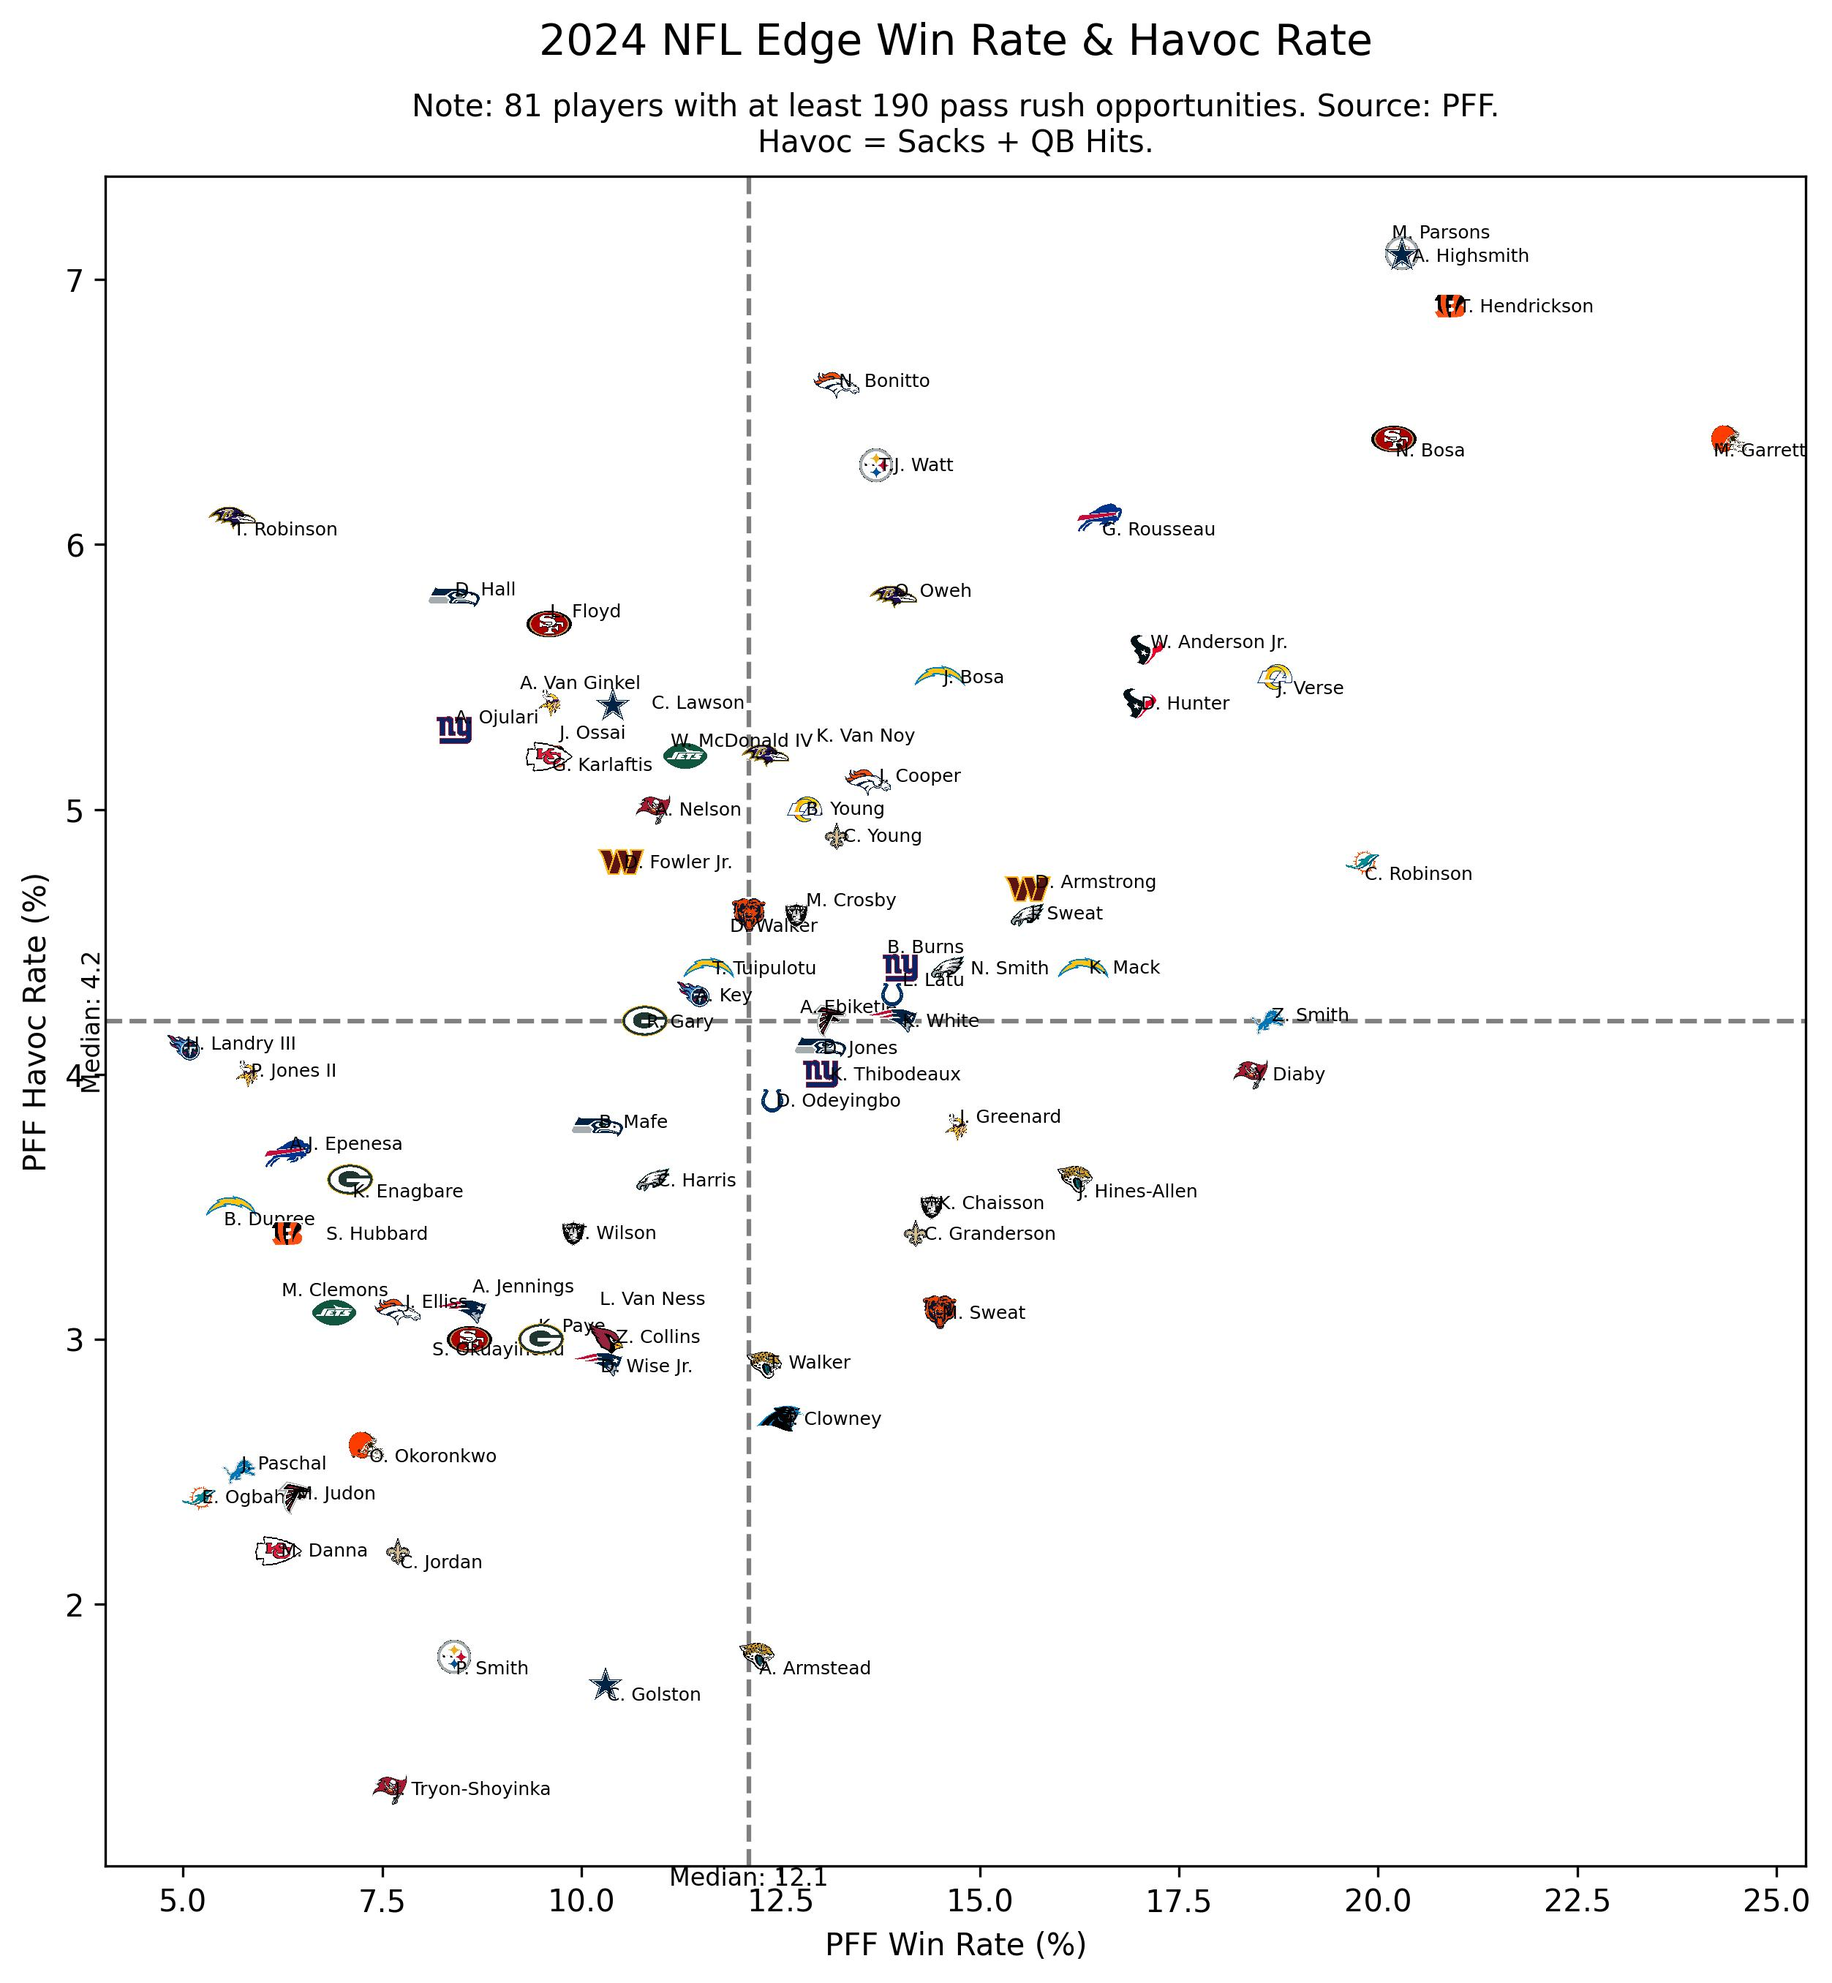
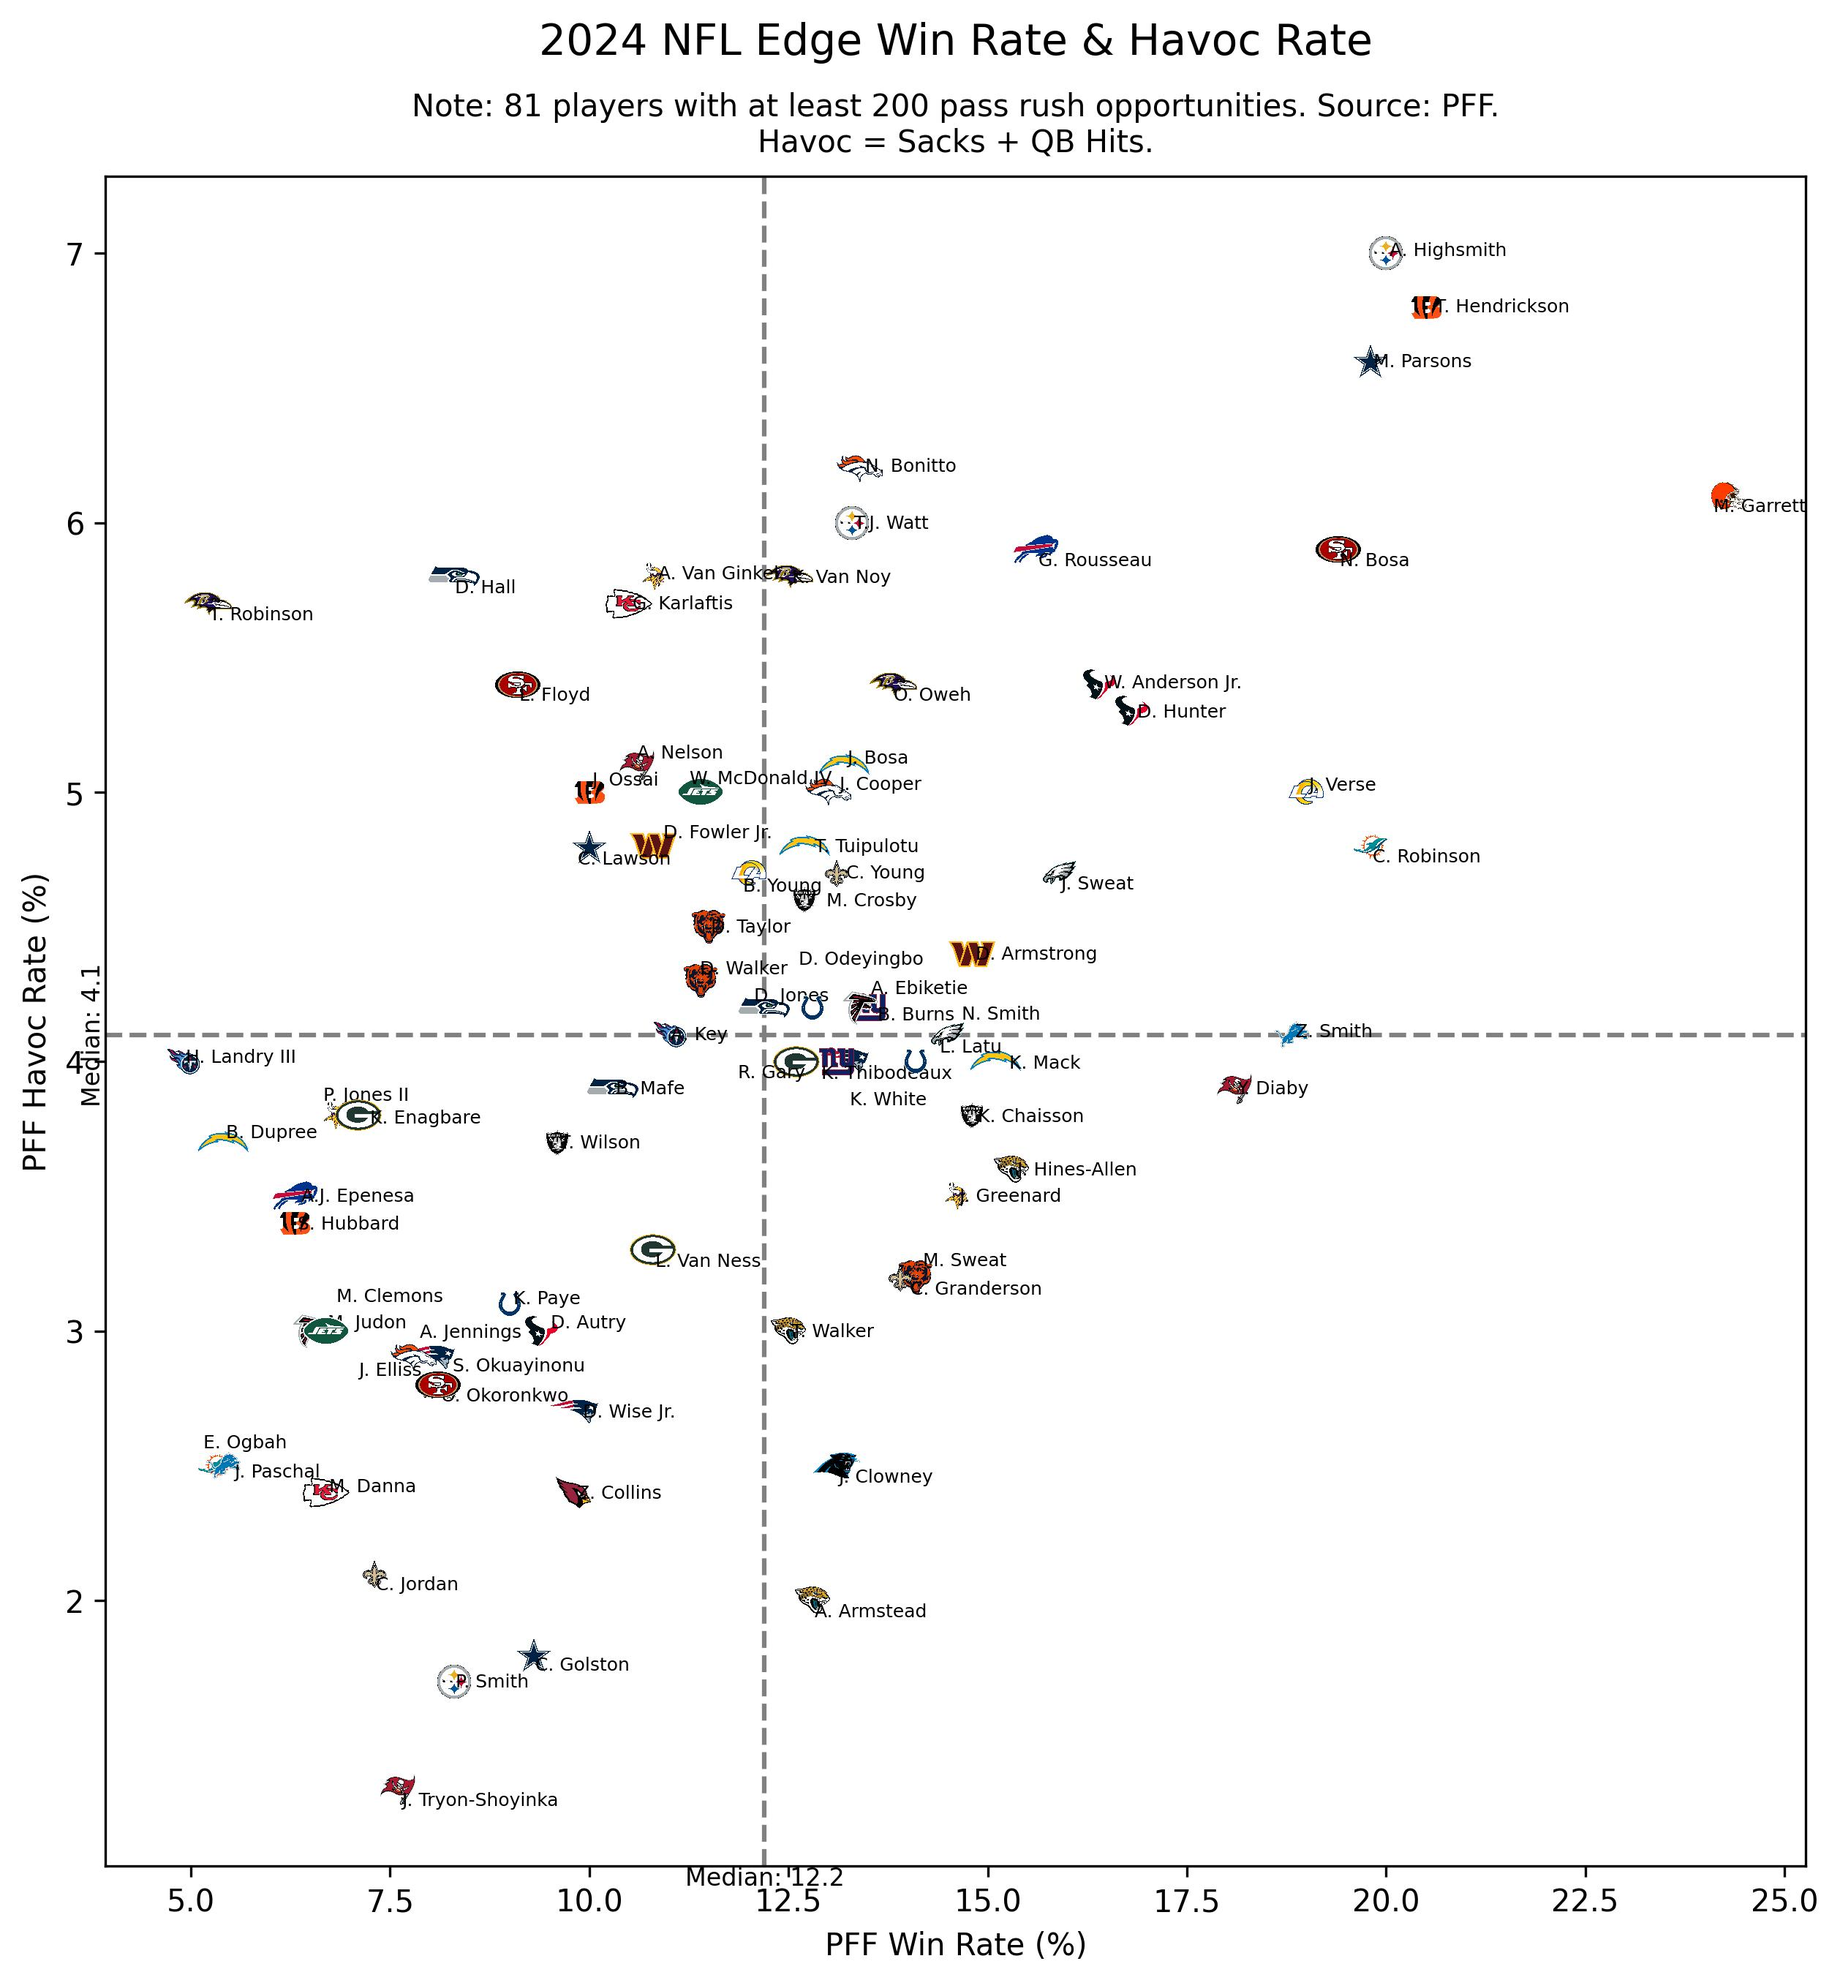
Completed 2024 Week 16.

diff --git a/scatter_plots/pass_block_plot.py b/scatter_plots/pass_block_plot.py
@@ -137,7 +137,7 @@ def plot_pass_block(
 
 if __name__ == "__main__":
     queries = [
-        [2024, "T", 250], [2024, "G", 250], [2024, "C", 250]
+        [2024, "T", 280], [2024, "G", 280], [2024, "C", 280]
     ]
     for query_season, query_position, query_threshold in queries:
         plot_pass_block(

diff --git a/scatter_plots/pass_rush_plot.py b/scatter_plots/pass_rush_plot.py
@@ -138,7 +138,7 @@ if __name__ == "__main__":
     from config import HAVOC_NOTE
 
     queries = [
-        [2024, "DI", 150], [2024, "ED", 190]
+        [2024, "DI", 160], [2024, "ED", 200]
     ]
     for query_season, query_position, query_threshold in queries:
         plot_pass_rush(
